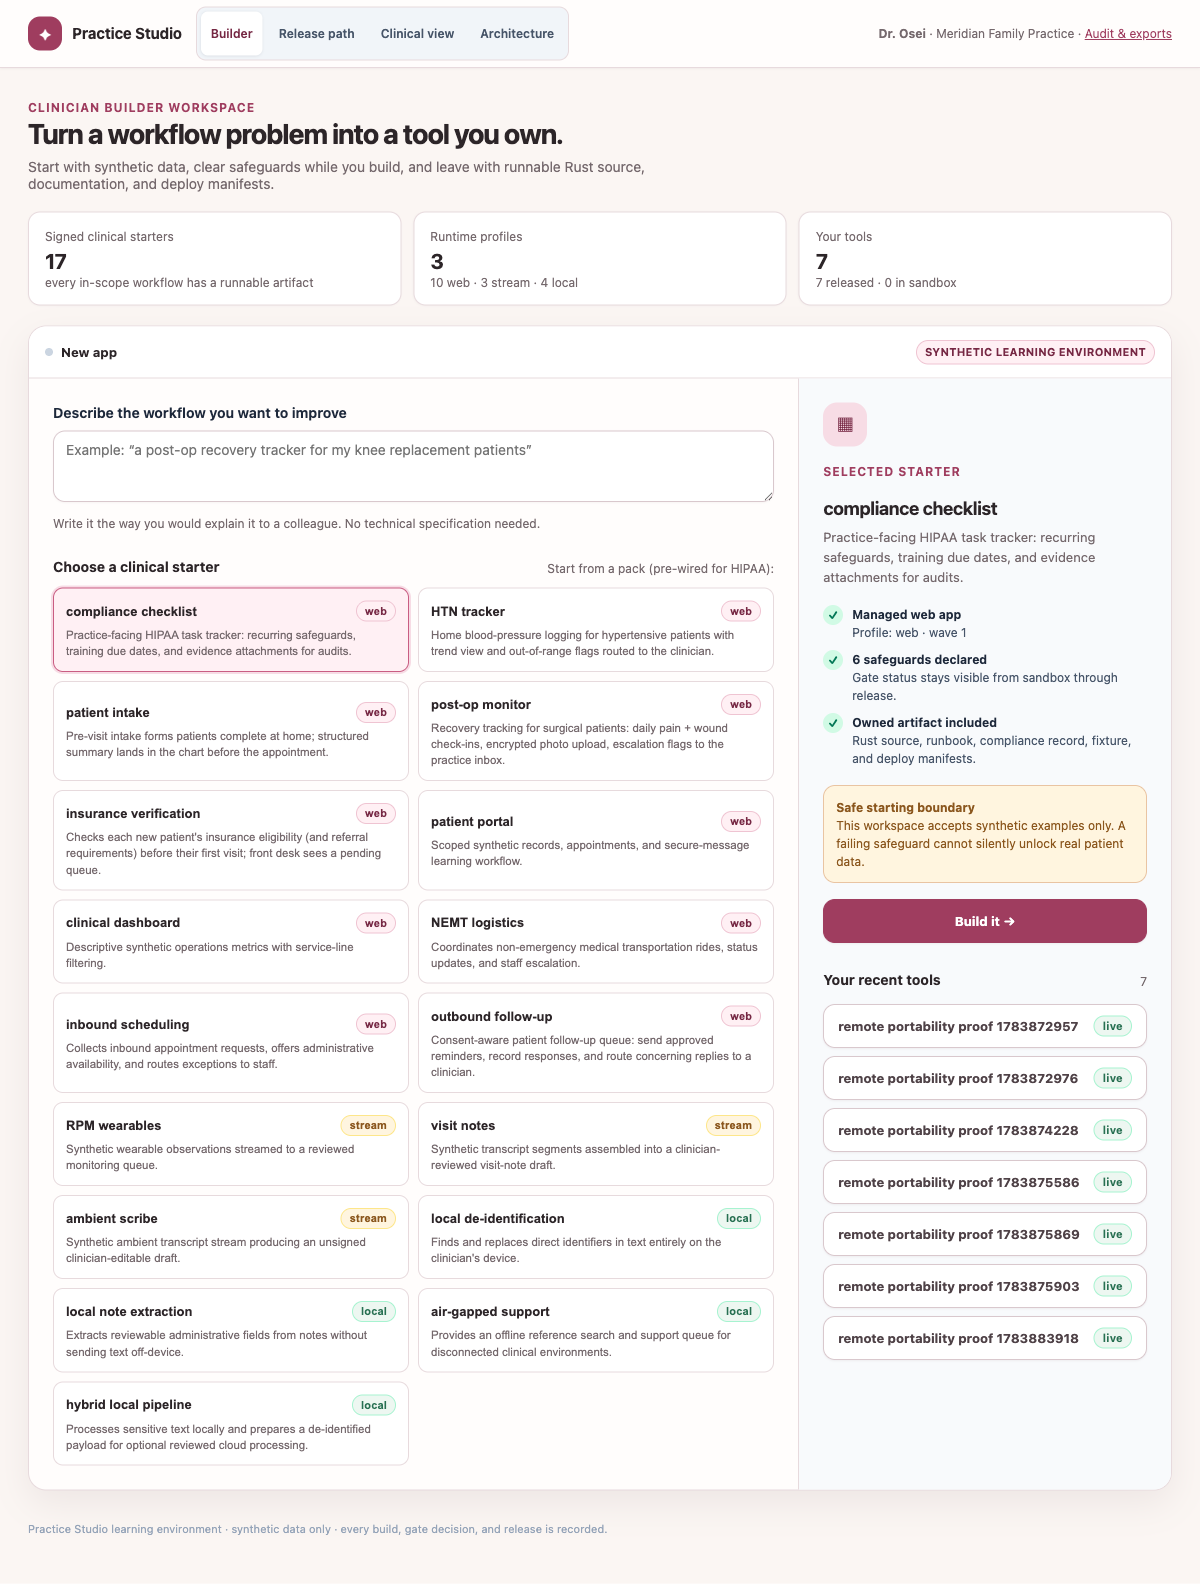
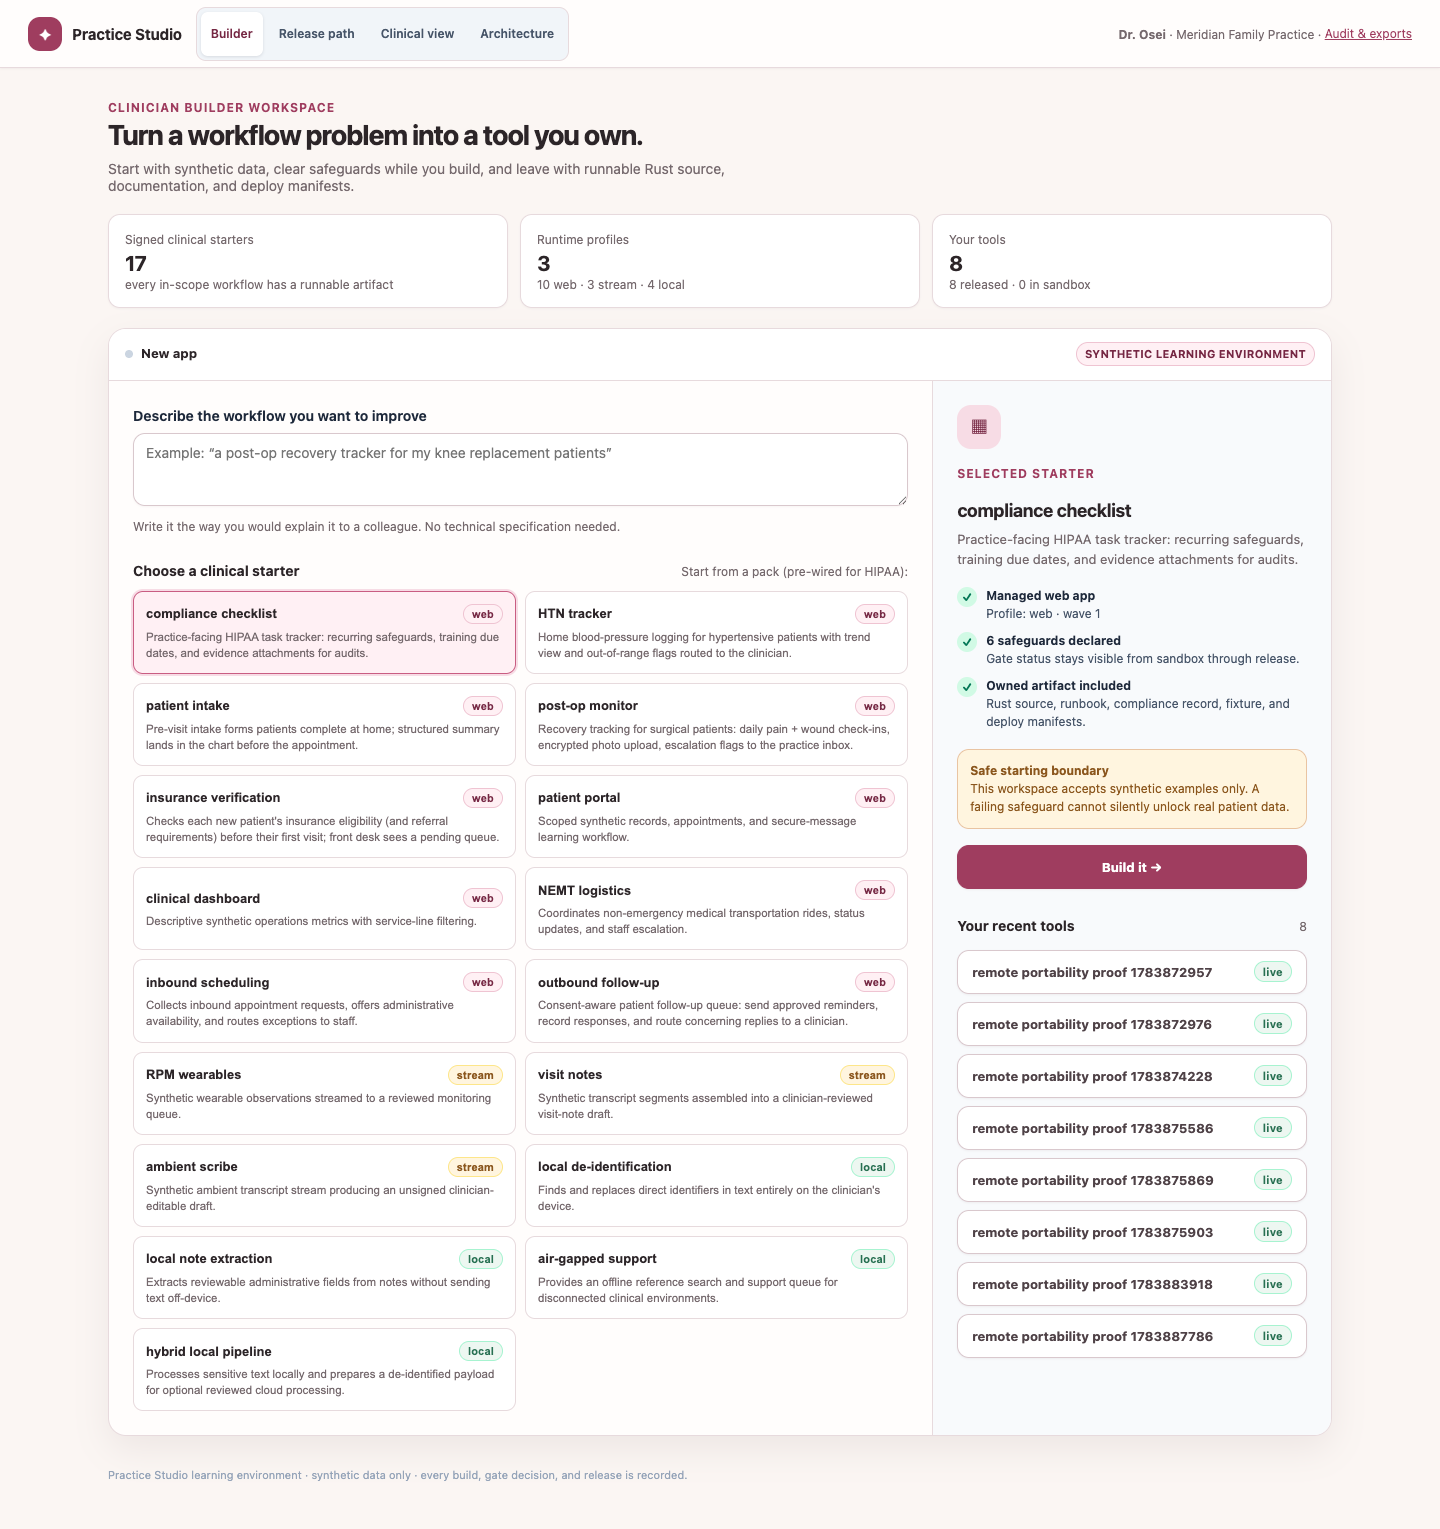
docs: pin final DigitalOcean proof

diff --git a/docs/evals/digitalocean-production-proof-2026-07-12.md b/docs/evals/digitalocean-production-proof-2026-07-12.md
@@ -1,6 +1,6 @@
 # DigitalOcean production proof
 
-Exact source: `49b69d96bf168998ff6b2dcc51892bb2f97ddb8f`.
+Exact source: `9eabeedcd58f673cb6f6aa071cb75c735d17fce3`.
 
 Environment: DigitalOcean Droplet `584090793`, `nyc3`, 2 vCPU / 4 GB,
 Ubuntu, Docker Compose, Postgres 16, restricted firewall. The studio container
@@ -9,17 +9,22 @@ dropped, and persistent state on named volumes.
 
 `scripts/single-host-release.sh` fetched the exact commit, rebuilt the pinned
 multi-stage image, recreated the studio, waited for health, and ran the remote
-portability proof. Result: passed. Changed-code release time was 1m42.59s;
-the optimized Rust build was 1m16s.
+portability proof. Result: passed after every GitHub check for the same SHA
+completed successfully. The optimized Rust build took 1m14s.
 
-The remote proof created `remote-portability-proof-1783883918`, kept it on
+The remote proof created `remote-portability-proof-1783887786`, kept it on
 synthetic data, exported its owned Rust/documentation/deploy bundle, and
 confirmed that the operate response makes no fabricated telemetry claim.
 
 Thirty authenticated `/api/packs` requests from the local operator measured
-34.7 ms p50, 47.8 ms p95, and 78.7 ms maximum. Browser inspection found 30
+32.2 ms p50, 42.1 ms p95, and 47.0 ms maximum. Browser inspection found 31
 visible interactive controls at mobile width; minimum computed height was
 44 px and none were below the target.
+
+The browser began unauthenticated and observed the two expected 401 responses,
+entered the strict-mode token into tab-scoped session storage through the
+visible sign-in form, and then rendered all 17 starters plus the newly created
+remote proof app. No token was placed in the URL or persisted server-side.
 
 Screenshots:
 